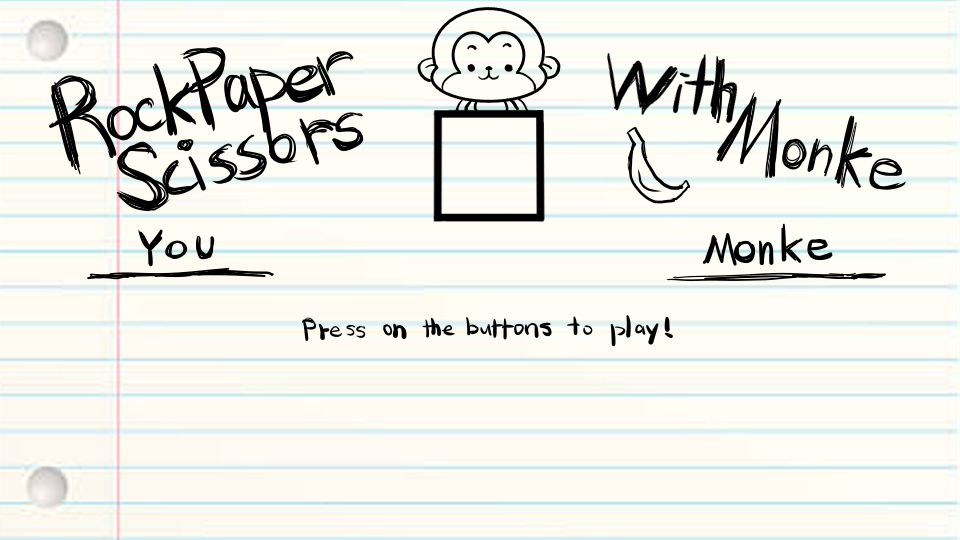
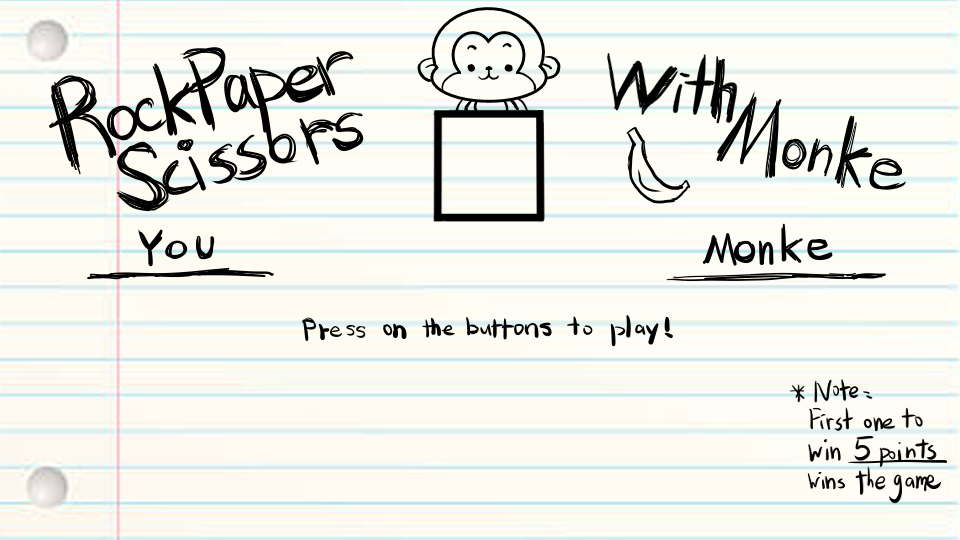
update on rps and jackpot

Changed region(s): [[0.8125, 0.7111, 1.0, 0.9481]]

diff --git a/RockPaperScissor.java b/RockPaperScissor.java
@@ -29,6 +29,8 @@ public class RockPaperScissor extends World
     
     private Counter playerWins = new Counter();
     private Counter computerWins = new Counter();
+    
+    private boolean ticketsAdded = false;
     /**
      * Constructor for objects of class MyWorld.
      * 
@@ -41,9 +43,8 @@ public class RockPaperScissor extends World
         addObject(rock, 280, 430);
         addObject(paper, 480, 430);
         addObject(scissors, 680, 430);
-        
-        //Add back to title button
-        addObject(GameHall.backtotitle, 860, 40);
+        //Add Golden tickets Counter
+        addObject(GameHall.currency, 150, 520);
     }
     
     private String getComputerInput()
@@ -137,6 +138,40 @@ public class RockPaperScissor extends World
         }
     }
     
+    private boolean checkGameEnd()
+    {
+        if(playerWins.getScore() >= 5 || computerWins.getScore() >= 5) return true;
+        return false;
+    }
+    
+    private void gameEndScreen()
+    {
+        if(playerWins.getScore() >= 5)
+        {
+            setBackground(new GreenfootImage("rps-WinScreen.png"));
+            if(!ticketsAdded)
+            {
+                GoldenTickets.addTickets(20);
+            }
+            
+            ticketsAdded = true;
+        }
+        else
+        {
+            setBackground(new GreenfootImage("rps-LoseScreen.png")); 
+            if(!ticketsAdded)
+            {
+                GoldenTickets.addTickets(-10);
+            }
+            
+            ticketsAdded = true;
+        }
+        //remove player interactive buttons
+        removeObject(rock);
+        removeObject(paper);
+        removeObject(scissors);
+    }
+    
     public void act()
     {
         //Add player and computer score counter
@@ -168,6 +203,13 @@ public class RockPaperScissor extends World
         userInput = "";
         computerInput = "";
         
-        GameHall.checkPause();
+        //Check if player or computer hits 5 points first, then pop out game end screen
+        if(checkGameEnd())
+        {
+            //Add back to title button
+            addObject(GameHall.backtotitle, 495, 390);
+            gameEndScreen();
+            GameHall.checkPause();
+        }
     }
 }

diff --git a/Jackpot.java b/Jackpot.java
@@ -95,25 +95,26 @@ public class Jackpot extends World
             
             //Use array nums to determine the prize/tickets deducted
             //3 Xs = no prize nor loss
-            if(nums[0] == 0 && nums[1] == 0 && nums[2] == 0)
-            {
-                GoldenTickets.addTickets(100);
-            }
-            if(nums[0] == 1 && nums[1] == 1 && nums[2] == 1)
-            {
-                GoldenTickets.addTickets(10);
-            }
-            else if(nums[0] == 2 && nums[1] == 2 && nums[2] == 2)
+            if(nums[0] == 0 || nums[1] == 0 || nums[2] == 0)
             {
                 GoldenTickets.addTickets(30);
             }
-            else if(nums[0] == 4 && nums[1] == 4 && nums[2] == 4)
+            if(nums[0] == 1 || nums[1] == 1 || nums[2] == 1)
+            {
+                GoldenTickets.addTickets(5);
+            }
+            else if(nums[0] == 2 || nums[1] == 2 || nums[2] == 2)
+            {
+                GoldenTickets.addTickets(10);
+            }
+            else if(nums[0] == 4 || nums[1] == 4 || nums[2] == 4)
             {
                 GoldenTickets.addTickets(-10);
             }
             
             
         }
+        GameHall.checkPause();
     }
     
     //Update the tiles

diff --git a/GameHall.java b/GameHall.java
@@ -40,8 +40,6 @@ public class GameHall extends World
         //add pause menu & shop
         addObject(pausemenu, 400, 480);
         addObject(shop, 560, 480);
-        
-        
     }
     
     public void act()
